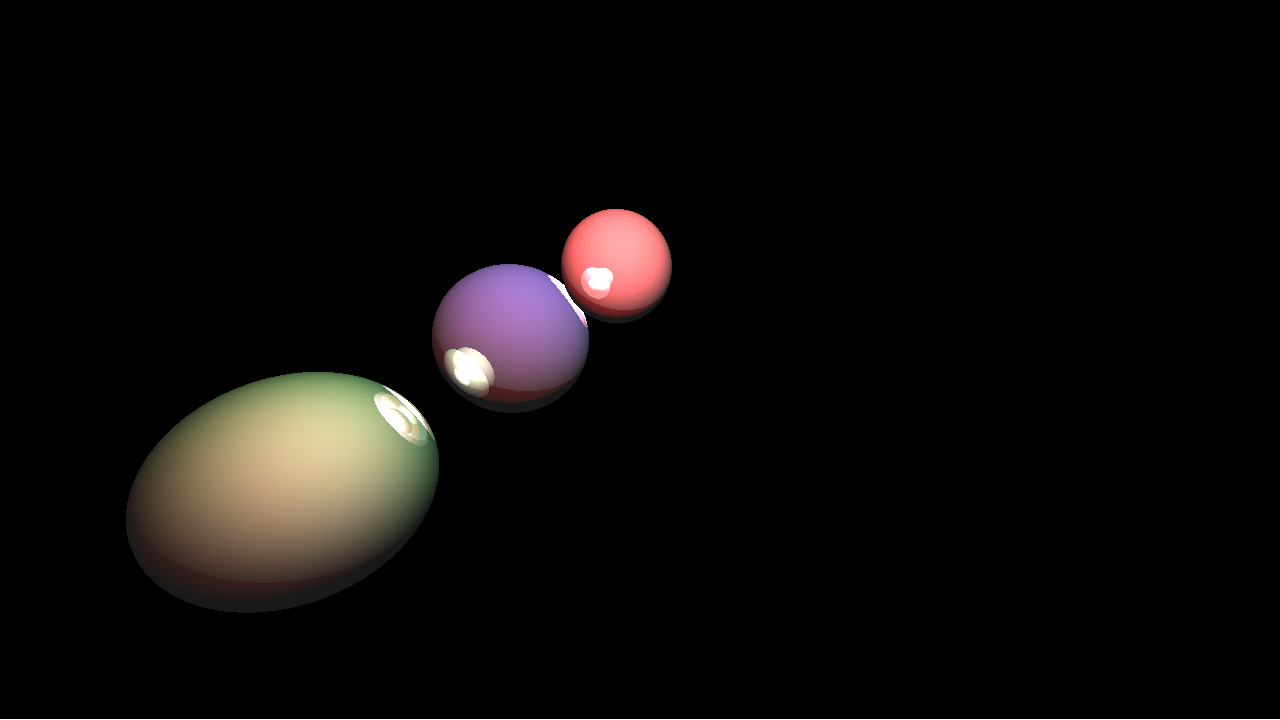
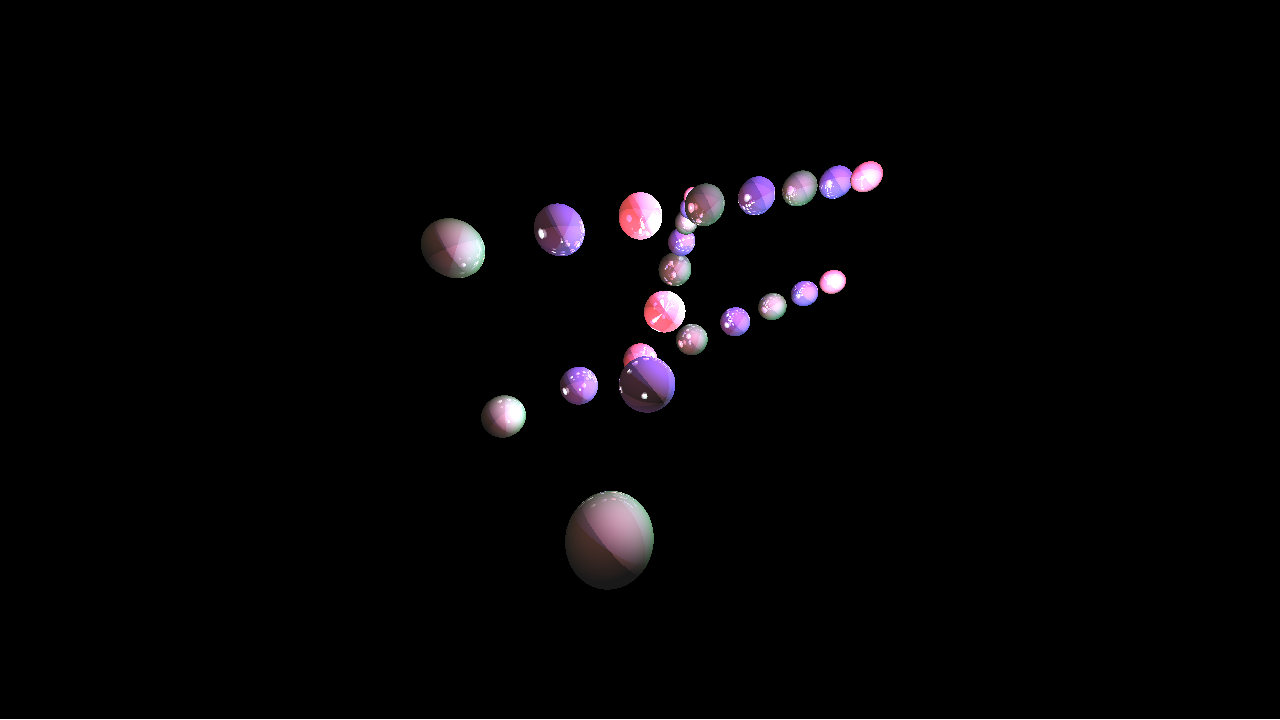
rendering minor fix

Changed region(s): [[0.0938, 0.2139, 0.6875, 0.8556], [0.4375, 0.6722, 0.5312, 0.825]]

diff --git a/src/camera.rs b/src/camera.rs
@@ -149,8 +149,23 @@ impl Camera {
         let p_camera = self.raster_to_camera.transform_point(&p_film);
         // every ray passed in here has default origin 0.0
         // ray.origin = Point3f::default();
-        ray.direction = Vector3f::from(p_camera);
-        // TODO: modified according to depth of field here
+        ray.direction = Vector3f::from(p_camera).normalize();
+        // 1/z` - 1/z = 1/f where z is object depth in scene; z` is focusing film distance from lens; f is focal distance
+        // if self.lens_radius > 0.0 {
+        //     // sample point on lens
+        //     let p_lens: Point2f = concentric_sample_disk(sample.p_lens) * self.lens_radius;
+        //     // // compute point on plane of focus
+        //     let ft = self.focal_distance / ray.direction.z;
+        //     let p_focus: Point3f = ray.position(ft);
+        //     // // update ray for effect of lens
+        //     ray.origin = Point3f {
+        //         x: p_lens.x,
+        //         y: p_lens.y,
+        //         z: 0.0,
+        //     };
+        //     ray.direction = (p_focus - ray.origin).normalize();
+        // }
+
         *ray = self.camera_to_world.transform_ray(&ray);
         1.0
     }

diff --git a/src/core.rs b/src/core.rs
@@ -23,7 +23,7 @@ pub fn calc_shadow(scn: &Scene, r: &mut Ray, collision_obj: i32) -> f64 {
         r.inter_dist = MAX_DIST;
 
         if obj.intersect(r, i as i32) && (i as i32) != collision_obj {
-            shadow += scn.material_list[obj.mat() as usize].transmit_col;
+            shadow *= scn.material_list[obj.mat() as usize].transmit_col;
         }
     }
 
@@ -98,7 +98,7 @@ pub fn trace(scn: &Scene, r: &mut Ray, depth: u32) -> Color {
                         inter_dist: MAX_DIST,
                         inter_obj: -1,
                     };
-                    c += trace(&scn, &mut ray_o_ref, depth + 1);
+                    c += trace(&scn, &mut ray_o_ref, depth + 1) * t_mat.reflection_col;
                 }
             }
             if t_mat.transmit_col > SMALL {
@@ -127,7 +127,7 @@ pub fn trace(scn: &Scene, r: &mut Ray, depth: u32) -> Color {
                         inter_dist: MAX_DIST,
                         inter_obj: -1,
                     };
-                    c += trace(scn, &mut refract_ray, depth + 1);
+                    c += trace(scn, &mut refract_ray, depth + 1) * t_mat.transmit_col;
                 }
             }
         }

diff --git a/src/misc.rs b/src/misc.rs
@@ -6,6 +6,7 @@ use std::io::{self, BufRead};
 use std::path::Path;
 pub const PI_OVER_2: f64 = 1.570_796_326_794_896_619_23;
 pub const PI_OVER_4: f64 = 0.785_398_163_397_448_309_61;
+pub const ONE_MINUS_EPSILON: f64 = 1.0 - MACHINE_EPSILON;
 
 pub fn read_lines<P>(filename: P) -> io::Result<io::Lines<io::BufReader<File>>>
 where

diff --git a/src/lights.rs b/src/lights.rs
@@ -1,8 +1,3 @@
-// type Light struct {
-// 	position Vector
-// 	color    Color
-// 	kind     string
-// }
 use crate::color::Color;
 use crate::geometry::Point3f;
 pub struct Light {

diff --git a/src/main.rs b/src/main.rs
@@ -14,6 +14,7 @@ use std::env;
 use std::str::FromStr;
 
 extern crate image;
+extern crate rand;
 
 fn main() {
     let args: Vec<String> = env::args().collect();

diff --git a/src/sampler.rs b/src/sampler.rs
@@ -1,4 +1,5 @@
 use crate::geometry::{Point2f, Point2i};
+use rand::prelude::*;
 use std::sync::RwLock;
 
 pub struct HaltonSampler {

diff --git a/src/lib.rs b/src/lib.rs
@@ -1,4 +1,6 @@
 extern crate image;
+extern crate rand;
+
 pub mod camera;
 pub mod color;
 pub mod core;
